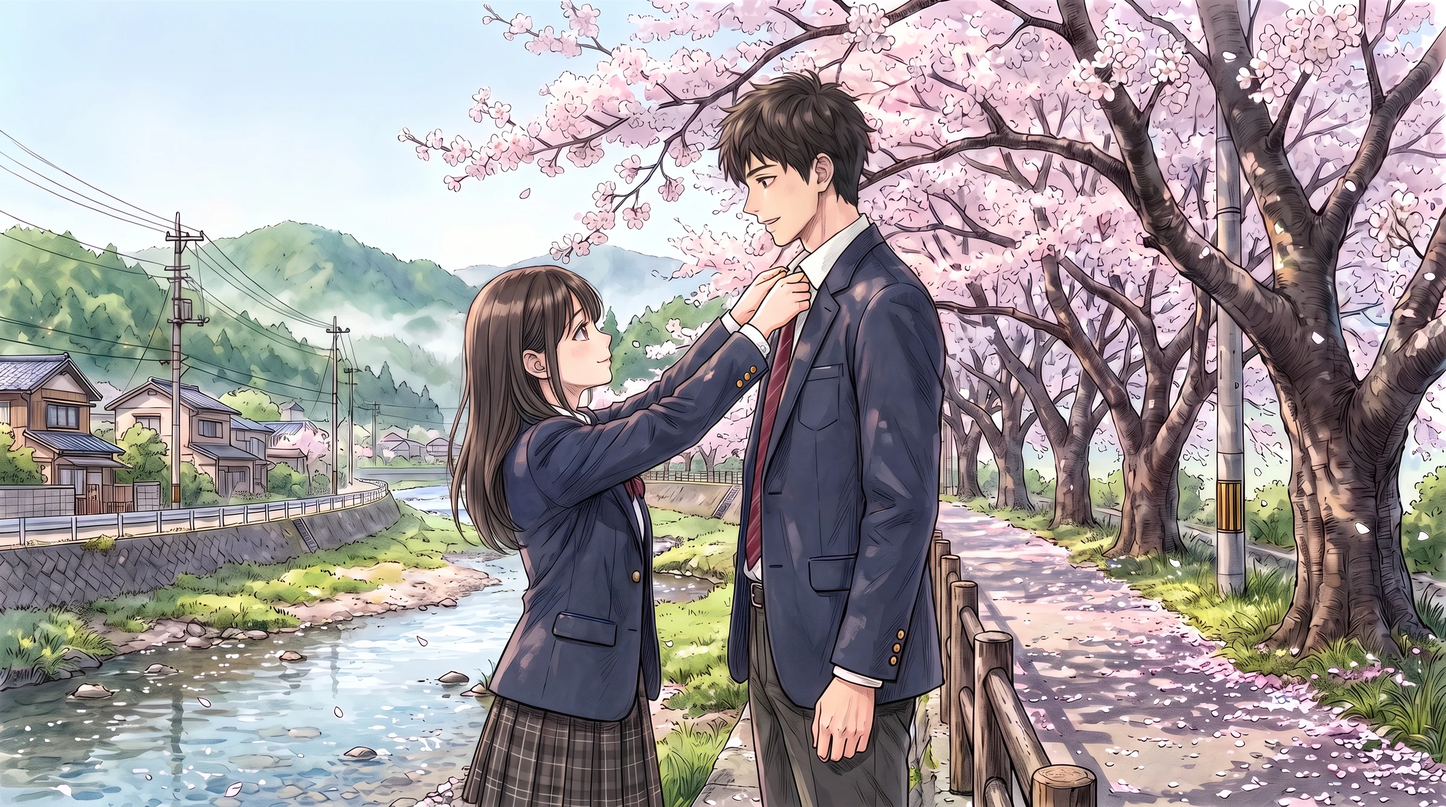
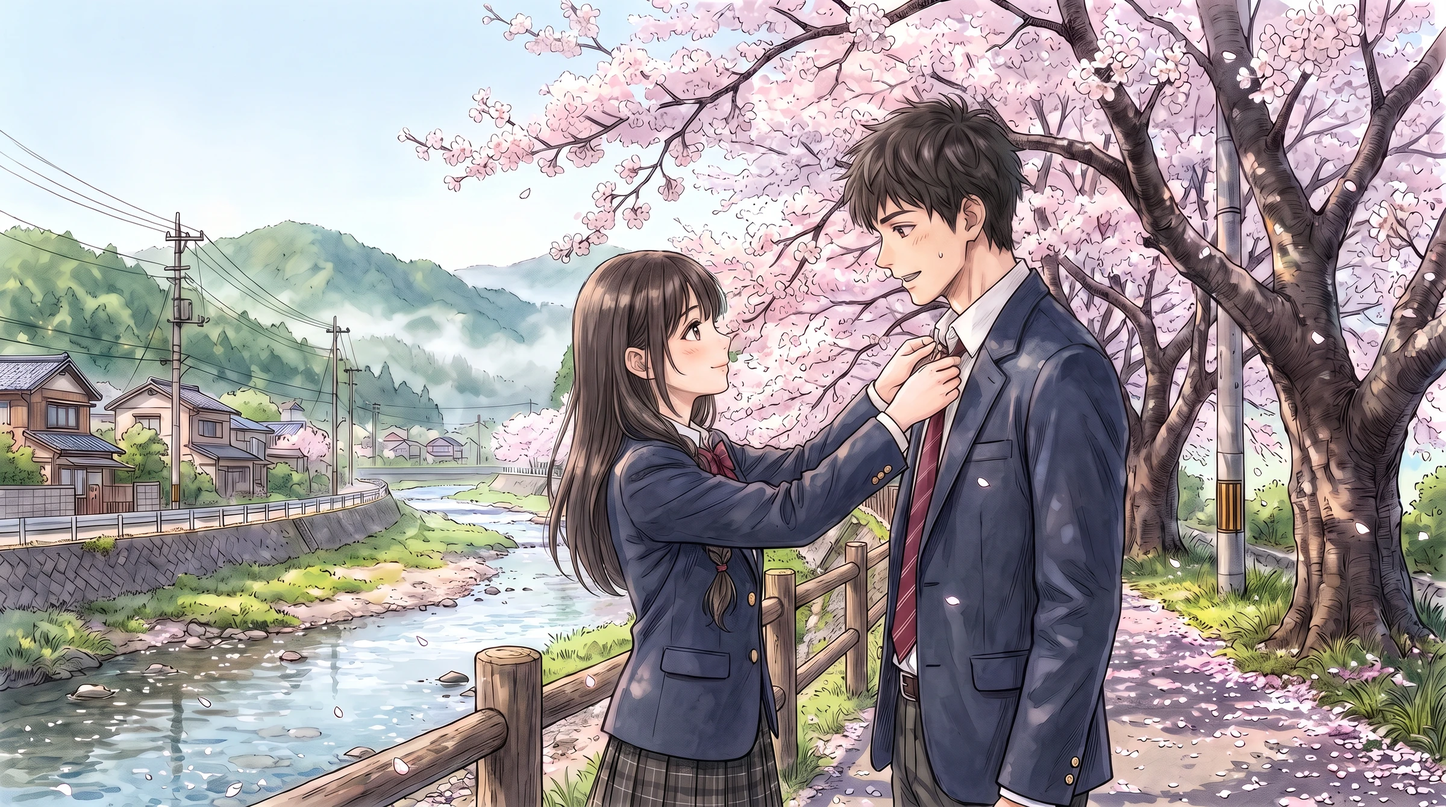
Pilot v2 Ch1: fourth check fixes (collar CG redrawn with matching head sizes, on the path, braid on her far shoulder; no blink on a tap before the falter loads)
Claude-Session: https://claude.ai/code/session_01RwxJ99cbnypmrRJW8WLjFt

diff --git a/v2/index.html b/v2/index.html
@@ -520,8 +520,8 @@ function setCg(name, tr){
   if(!name){ setCg.tok++; liveOff(); const d=tr==='cut'?0:tr==='slow'?1.8:1; cgImgs.forEach(i=>{ i.style.transition=`opacity ${d}s ease`; i.classList.remove('on'); }); fill.style.transition=`opacity ${d}s ease`; fill.classList.remove('on'); return; }
   const next=cgImgs[1-cgFront], cur=cgImgs[cgFront], dur=tr==='cut'?0:tr==='slow'?1.8:1;
   const over=cur.classList.contains('on');   // a CG is already up: the new one fades in on top of it
-  if(over && next.classList.contains('on') && next.src.endsWith(`/img/bg/${name}.webp`)){
-    // a tap mid-fade back to the image still underneath: fade the top one back out, no cut
+  if(next.classList.contains('on') && next.src.endsWith(`/img/bg/${name}.webp`)){
+    // a tap mid-fade (or before the new image has even loaded) back to the image still underneath: fade the top one back out, no cut
     ++setCg.tok; cur.style.transition=`opacity ${dur}s ease`; cur.classList.remove('on');
     fill.style.backgroundImage=`url(img/bg/${name}.webp)`; cgFront=1-cgFront; liveOn(name, (tr==='cut'?0:tr==='slow'?1800:1000)+150); return;
   }

diff --git a/production/pilot-v2/art/prompts.md b/production/pilot-v2/art/prompts.md
@@ -12,11 +12,13 @@ Refs are raw GitHub URLs (`https://raw.githubusercontent.com/thefirstmccabe/ozak
 - Prompt: "Edit image 1: change ONLY the girl's face. Her bright smile falters for a moment: the smile half gone, lips slightly parted, eyes a little wider and fixed, looking straight ahead toward the back of the classroom, as if she has just seen someone she almost knows. Subtle and brief, not shocked, no tears. Keep everything else exactly identical: her hair, her raised hand, her pose, her uniform, the classmates, the room, the light, the framing, the art style and colors."
 
 ## cg_collar (river walk)
-- **Current version (Oct 17, third review):** redrawn because the first version had Nanoha about 5 inches too tall (her head at his eyes), her hands only at chin height, and, once mirrored to fix her braid side, the riverside reversed against `bg_river_morning`.
-- `fal-ai/nano-banana-pro/edit`, 2K, 16:9. Refs: `img/ch/nanoha_school_smile.webp`, `production/refs/inventory/full-kohei.png`, `img/bg/bg_river_morning.webp`, `v2/img/face/kohei_smile.webp`. 2 takes; **picked seed 42** (head reaching only his chin, arms raised; seed 41 was closer but kept her taller). It still put her braid and clip on the near side (her right), so one edit removed them there: with her facing right, her left-side braid and clip are hidden on the far side.
-- Prompt: "A quiet spring morning on the riverside path in image 3. Keep image 3's layout exactly: the river, the far-bank houses and the mountain on the LEFT of the frame, the path, the cherry trees in full bloom and the utility pole on the RIGHT, soft morning light. Nanoha (image 1: keep her face, warm skin tone, long dark-brown hair and uniform exactly; her braid and hair clip are on her LEFT side, so with her facing right they are on the far side of her head, the braid falling over her far shoulder) stands on the river side, on the left, facing right. Kohei (image 2 and image 4: keep his face, short messy dark-brown hair, build and uniform exactly, with the blazer breast pocket on his left chest) stands on the path side, on the right, facing left toward her. She is MUCH shorter than him: she is 4 feet 11 inches and he is 5 feet 9 inches, so even up on her toes the top of her head only reaches his chin. She stretches up, arms raised, her hands lifted to about the level of her own forehead, folding his white shirt collar down neatly over his tie. He holds still and looks down at her with a slightly surprised, patient half-smile; she looks up at the collar, focused, with a small private smile. Medium two-shot from the side, from the waist up, both faces clearly visible, a few petals drifting in the air. School uniforms: … (as below). Style: … FULL NATURAL COLOR, absolutely not grayscale. No text, no border, no panel frames."
-- Braid edit: "Edit image 1: the girl's braid and hair clip must be on her LEFT side, which in this shot is the far side of her head, away from the viewer. Remove the braid and the hair clip from the near side of her head: on the near side her long dark-brown hair simply falls loose down past her shoulder, tucked behind her ear. Show only a short glimpse of the braid behind her far shoulder, and no clip on the visible side. Keep everything else exactly identical: …"
-- **Lesson for later CGs:** a side-view character shows only one side of her design. Pick the composition so her signature side (Nanoha's braid and clip: her left) faces the camera, or say plainly that it's hidden.
+- **Current version (Oct 17, fourth review):** the third-review version drew Nanoha's whole figure smaller to meet "head at his chin" (her head about 0.64× his, so she read younger), stood them off the path on the river side of the fence, and lost her braid. Redrawn.
+- `fal-ai/nano-banana-pro/edit`, 2K, 16:9. Refs: `img/ch/nanoha_school_smile.webp`, `production/refs/inventory/full-kohei.png`, `img/bg/bg_river_morning.webp`, `v2/img/face/kohei_smile.webp`, `production/refs/handoff/Nanoha-School-Braid.png` (braid only, not its proportions), `production/refs/lineup/lineup-1-school.png` (relative sizes). 2 takes; **picked seed 52** (her single thick braid, heads nearly the same size, both on the path with the fence between her and the river, him looking down at her; seed 51 gave her loose waves and a thin braid). It put the braid and clip on her near side, so one edit moved the braid over the front of her far (left) shoulder, with its tail showing in front of her blazer, and removed the clip from the near side.
+- Prompt (key lines): "Keep image 3's layout exactly … Both of them stand ON THE PATH, with the wooden fence running behind Nanoha, between her and the river … Her braid is on her LEFT side and hangs forward over the front of her left shoulder, so in this side view its tail shows in front of her chest near her ribbon, partly behind her raised arm; her hair clip is on her left side, hidden on the far side of her head … his head tilted down, looking down at her face … use image 6 (the cast lineup) for their relative sizes. She is a petite 16-year-old girl, 4 feet 11 inches; he is 5 feet 9 inches. Her head is nearly as big as his … Up on her toes, the top of her head reaches just under his chin. She stretches up, arms raised …" plus the uniform, style and "FULL NATURAL COLOR" lines used throughout.
+- **Lessons for later CGs:** (1) say that heads stay nearly the same size and the shorter character's body is shorter, and pass the cast lineup, or the model shrinks her whole figure; (2) a side view shows only one side of a design, so plan which side of Nanoha (braid and clip on her left) faces the camera, and expect an edit pass if it lands on the wrong side.
+
+### Third-review version (superseded)
+- Seed 42 from the earlier redraw plus a braid-removal edit: right layout and arms raised, but her figure was shrunken and the braid was gone.
 
 ### First version (superseded)
 - `fal-ai/nano-banana-pro/edit`, 2K, 16:9. Refs: `img/ch/nanoha_school_smile.webp`, `production/refs/inventory/full-kohei.png`, `img/bg/bg_river_morning.webp`. 2 takes; **picked seed 23** (her hands on his collar; the other had her holding his tie). It dropped her hair clip, so one more edit added it back with a petal on it ("Edit image 1: add the girl's small hair clip from image 2 … with one cherry petal resting right on the clip. Keep everything else in image 1 exactly identical …", refs: the pick + the Nanoha sprite). **Then mirrored horizontally** (the independent review caught that her braid and clip came out on her right; her design has them on her left). Her hands sit at about chin height although the script says she stretches; a regenerate with her arms raised is an option (new spend).

diff --git a/story/production-log.md b/story/production-log.md
@@ -148,12 +148,13 @@ The old working bible (`ozakura/story-bible.md`) was retired Oct 8. Its contents
 | 10-17 | **Author's Ch1 punch list, round 1** (as he plays): **Rika's voice down to +2 semitones** (style guide §7). **An interlude's POV character uses face windows, not a sprite** (style guide §3a), so Nanoha is a portrait in her interlude. **Ōno-sensei is shown on screen** (new sprite from `inventory/full-ono.png`; face window when he talks over a CG). **Natsuki's arrival stays on the front-of-class CG** through the hitch until she walks to his seat; the hitch is a variant of that CG with her smile faltering (face only, crossfaded). Natsuki isn't tall any more, so the "taller than the vice-principal" rumor is cut. Prologue: the cut is on the inside of the wrist, matching the CG. "Which I'm also fast at" rephrased. **Added [P]:** a CG of Nanoha fixing his collar on the river walk (the VN never had one; the manga did). **Prologue music:** the author doesn't love `memory` there; he'll decide after hearing it under the catch in Ch2 (options: no music, just river and wind, or a new dream cue at about $2). |
 | 10-17 | **Second independent review** (of the review fixes and punch list 1, at the author's request): fixed the falter crossfade (the empty classroom showed through mid-fade, and the text box blinked), Ōno's face window breaking after a Load, the falter outlasting its "just for a second," the prologue's wrist line reading like self-harm (now "a cut on the inside of it from training"), the collar CG drawing Nanoha mirrored (flipped so her braid and clip are on her left), and Kōhei's face showing twice during the collar CG (the CG now ends before he speaks, so §3a rule 1 stands). **In portrait, CGs now show whole over a blurred fill** instead of being cropped to the middle (the classmates were cut out of her arrival). Smaller fixes: Natsuki's self-introduction no longer repeats よろしくお願いします; the interlude's school exchange happens once they're in the classroom; two repeated beats reworded. 2 lines re-voiced. |
 | 10-17 | **Third independent review** (of the second round's fixes): the mirrored collar CG had also reversed the riverside against the background shown just before it, and the CG drew Nanoha about 5 inches too tall. **Redrawn** to match `bg_river_morning`, with her head reaching only his chin and her arms raised; her braid and clip (her left side) are on the far side in this view. A fast tap during the falter crossfade no longer cuts. In the interlude Natsuki now leans on the desk in front of hers (her sprite stands). Pilot notes list the remaining v2 [P] details. |
+| 10-17 | **Fourth independent check** (the new collar CG and the tap fix): the CG met "her head at his chin" by drawing her whole figure smaller (her head about two-thirds of his, so she read younger), stood them off the path, and lost her braid. **Redrawn again** with the cast lineup as a size reference: heads nearly the same size, both on the path, her braid hanging forward from her far (left) shoulder. A tap before the falter image has loaded no longer blinks the CG. |
 | 10-17 | **Image motif added (the author's idea):** past-life Natsuki in the white wedding hood (*wataboshi*), a late fragment before the long dreams, paid off by the wedding in Ch30 (canon scene bank 23; chapter map Ch27 and Ch30, placement a Proposal). |
 
 ## 3. Budget
 | Line | Cap | Spent | Notes |
 |---|---|---|---|
-| Pilot v2 (Prologue + Ch1–4), Oct 16 | $40 | about $7.45 after Ch1 | Ch1: ~37 images, 2 living stills, 40 voice takes, 4 rounds of transcript checks. Ledger: `production/pilot-v2/ledger.md` |
+| Pilot v2 (Prologue + Ch1–4), Oct 16 | $40 | about $7.90 after Ch1 | Ch1: ~37 images, 2 living stills, 40 voice takes, 4 rounds of transcript checks. Ledger: `production/pilot-v2/ledger.md` |
 | VN pilot | $100 | about $30–35 | |
 | Manga Vol. 1 | $50 | $33.01 | About $17 left |
 | Concept art, Oct 6 | none set (author-requested) | about $1–2 | 7 character images (NB2 1K) plus 4 house tests (NB2 2K) |

diff --git a/production/pilot-v2/ledger.md b/production/pilot-v2/ledger.md
@@ -18,5 +18,6 @@ Rates checked Oct 17: NB2 edit $0.08/image, NB Pro edit $0.15/image, bria cutout
 | 10-17 | Punch list 1: Ōno-sensei sprite (NB2 2K ×2 + cutout), intro CG falter variant (NB Pro 2K ×2), collar CG (NB Pro 2K ×2 + a clip fix), 3 re-voiced lines and their transcripts | 11 | $0.99 |
 | 10-17 | Second review fixes: 2 re-voiced lines and their transcripts | 4 | $0.03 |
 | 10-17 | Third review: collar CG redrawn (NB Pro 2K ×2) plus one braid edit | 3 | $0.45 |
+| 10-17 | Fourth review: collar CG redrawn again (NB Pro 2K ×2) plus one braid edit | 3 | $0.45 |
 
-**Total after Ch1: about $7.45 of $40.**
+**Total after Ch1: about $7.90 of $40.**
